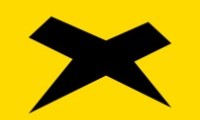
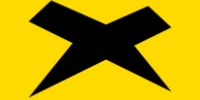
standardize experience image sizes

Changed region(s): [[0.12, 0.0, 0.87, 0.93], [0.33, 0.57, 0.75, 0.81], [0.12, 0.81, 0.33, 0.99]]

diff --git a/index.html b/index.html
@@ -101,7 +101,7 @@
 							</article>
 							<article class="col-6 col-12-xsmall work-item">
 								<div class="image fit exp-box great-taste-exp-link" id="great-taste-exp-box">
-									<img src="images/GreatTaste.jpg" alt=""  />
+									<img src="images/GreatTaste_Thumb.jpg" alt=""  />
 									<div class="overlay">Learn More</div>
 								</div>
 								<h3><a class="great-taste-exp-link">Great Taste Cuisine</a></h3>
